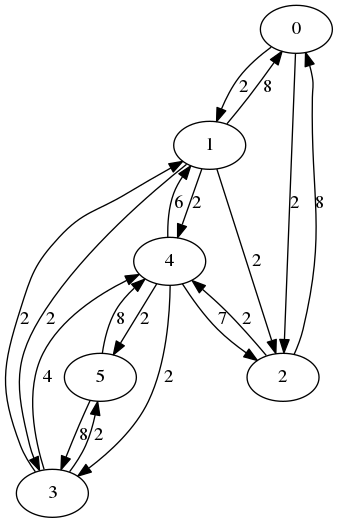
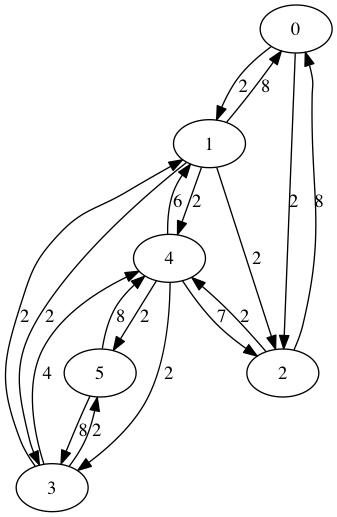
bfs test, minor changes

diff --git a/maxflow/dinic.py b/maxflow/dinic.py
@@ -7,19 +7,20 @@ import random
 import numpy as np
 from Queue import Queue
 
-INF = float('inf') # use double inf
+INF = float('inf')  # use double inf
+
 
 def find_distances(graph, source):
     """ Find distances using bfs """
     dist = [INF for _ in graph]
     q = Queue()
-    dist[source]=0
+    dist[source] = 0
     q.put(source)
-    while(q.empty()==0):
-        current=q.get()
+    while(q.empty() == 0):
+        current = q.get()
         for t in graph[current]:
-            if dist[t[0]]==INF:
-                dist[t[0]]=dist[current]+1
+            if dist[t[0]] == INF:
+                dist[t[0]] = dist[current] + 1
                 q.put(t[0])
     return dist
 
@@ -88,25 +89,21 @@ class DinicImageSequence(ImageSequence):
                 temp1, temp2 = self.graph[i][j]
                 adj_matrix[i, temp1] = temp2
 
-
         for i in range(self.vertices):
-            for j in range( len(capacity_graph[i]) ):
+            for j in range(len(capacity_graph[i])):
                 temp1, temp2 = capacity_graph[i][j]
                 cap_adj_matrix[i, temp1] = temp2
 
-
-        #Find residual graph
+        # Find residual graph
         for i in range(self.vertices):
-            for j in range(i+1,self.vertices):
-                res_adj_matrix[i,j] = (cap_adj_matrix[i,j] -adj_matrix[i,j]) + adj_matrix[j,i]
-                res_adj_matrix[j,i] = (cap_adj_matrix[j,i] -adj_matrix[j,i]) + adj_matrix[i,j]
+            for j in range(i + 1, self.vertices):
+                res_adj_matrix[i, j] = (cap_adj_matrix[i, j] - adj_matrix[i, j]) + adj_matrix[j, i]
+                res_adj_matrix[j, i] = (cap_adj_matrix[j, i] - adj_matrix[j, i]) + adj_matrix[i, j]
 
                 # Store also as matrix and as a adjacency list form
-                if res_adj_matrix[i,j]!=0:
-                    res_graph[i].append((j, res_adj_matrix[i,j]))
+                if res_adj_matrix[i, j] != 0:
+                    res_graph[i].append((j, res_adj_matrix[i, j]))
 
-                if res_adj_matrix[j,i]!=0:
-                    res_graph[j].append((i, res_adj_matrix[j,i]))
-
-
+                if res_adj_matrix[j, i] != 0:
+                    res_graph[j].append((i, res_adj_matrix[j, i]))
         return res_graph

diff --git a/main.py b/main.py
@@ -1,6 +1,6 @@
 """ Main driver """
 
-from maxflow.dinic import DinicImageSequence
+from maxflow.dinic import DinicImageSequence, find_distances
 from maxflow.graph import input_graph, display_graph
 from maxflow.block_flow import BlockingFlowImageSequence
 from gui.image_display import start_gui
@@ -16,27 +16,29 @@ def dinic_test():
 
 
 def blocking_flow_test():
-    b = BlockingFlowImageSequence(graph, v, e,[], 0, v - 1)
+    b = BlockingFlowImageSequence(graph, v, e, [], 0, v - 1)
     block_graph = b.blocking_flow()
     print "blocking flow", block_graph
     display_graph(block_graph, "Block_flow")
 
-def residual_test():
 
+def residual_test():
     graph_zero_wt = [[] for i in range(v)]
 
     for i in range(v):
         for j in range(len(graph[i])):
             temp1, temp2 = graph[i][j]
-            graph_zero_wt[i].append((temp1, temp2-2))
-    
+            graph_zero_wt[i].append((temp1, temp2 - 2))
+
     b = DinicImageSequence(graph_zero_wt, v, e, 0, v - 1)
     res_graph = b.residual(graph)
 
-    display_graph(res_graph,"residual_graph")
+    display_graph(res_graph, "residual_graph")
 
 
+def bfs_test():
+    print find_distances(graph, 0)
 
+# bfs_test()
 # dinic_test()
 residual_test()
-
